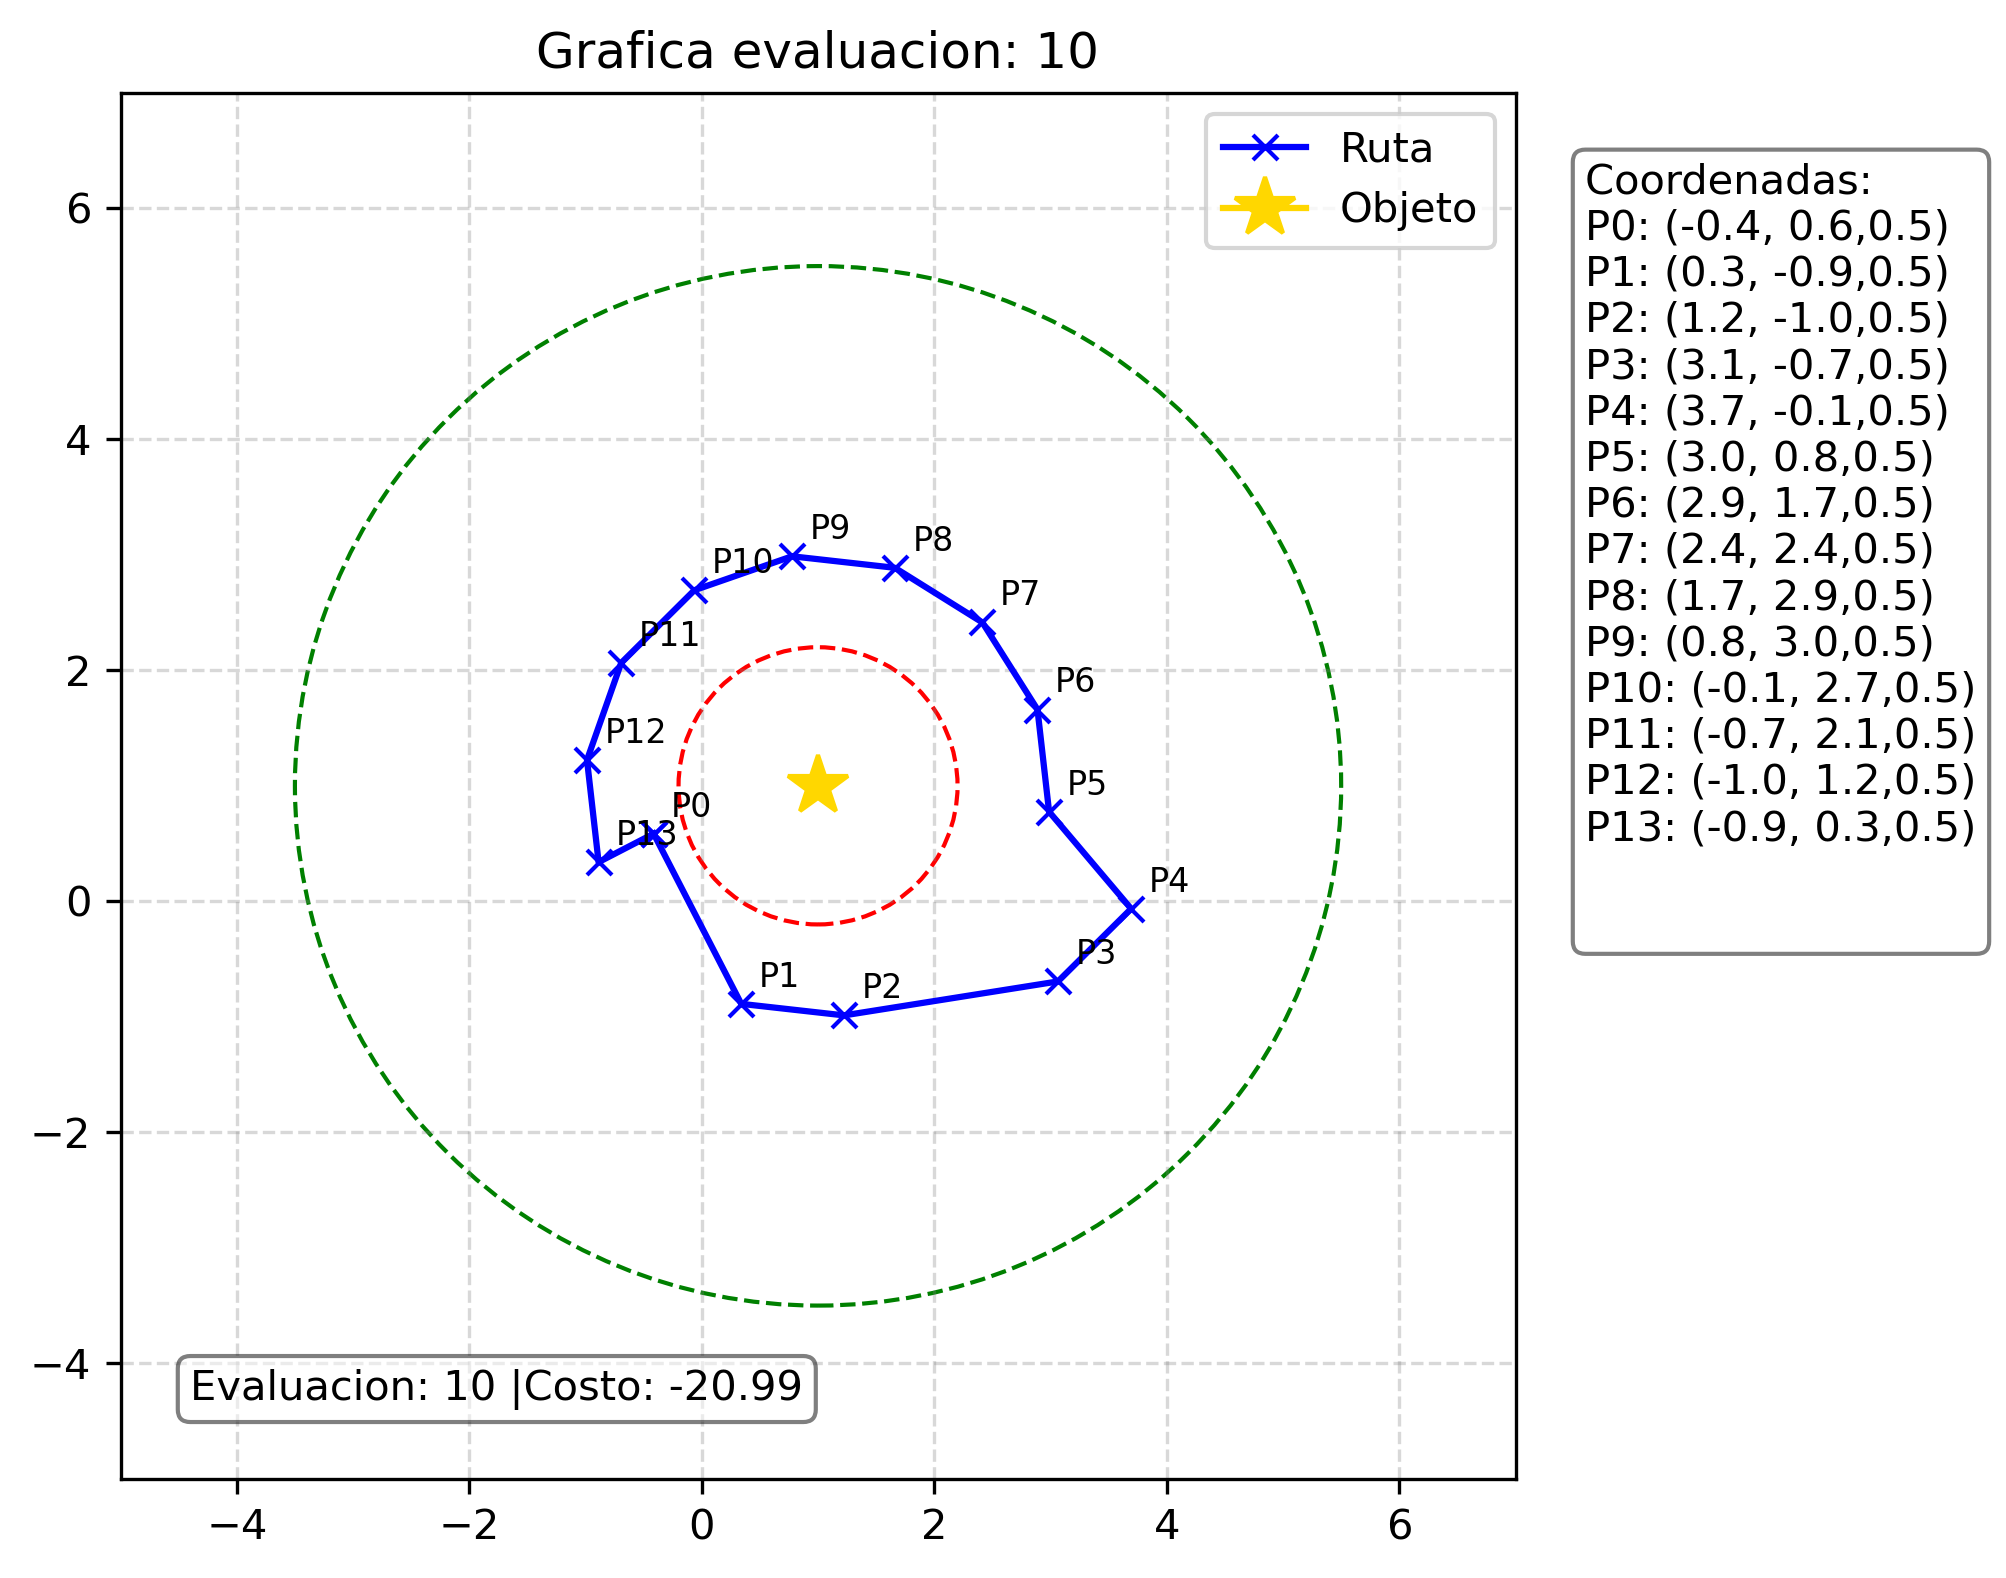
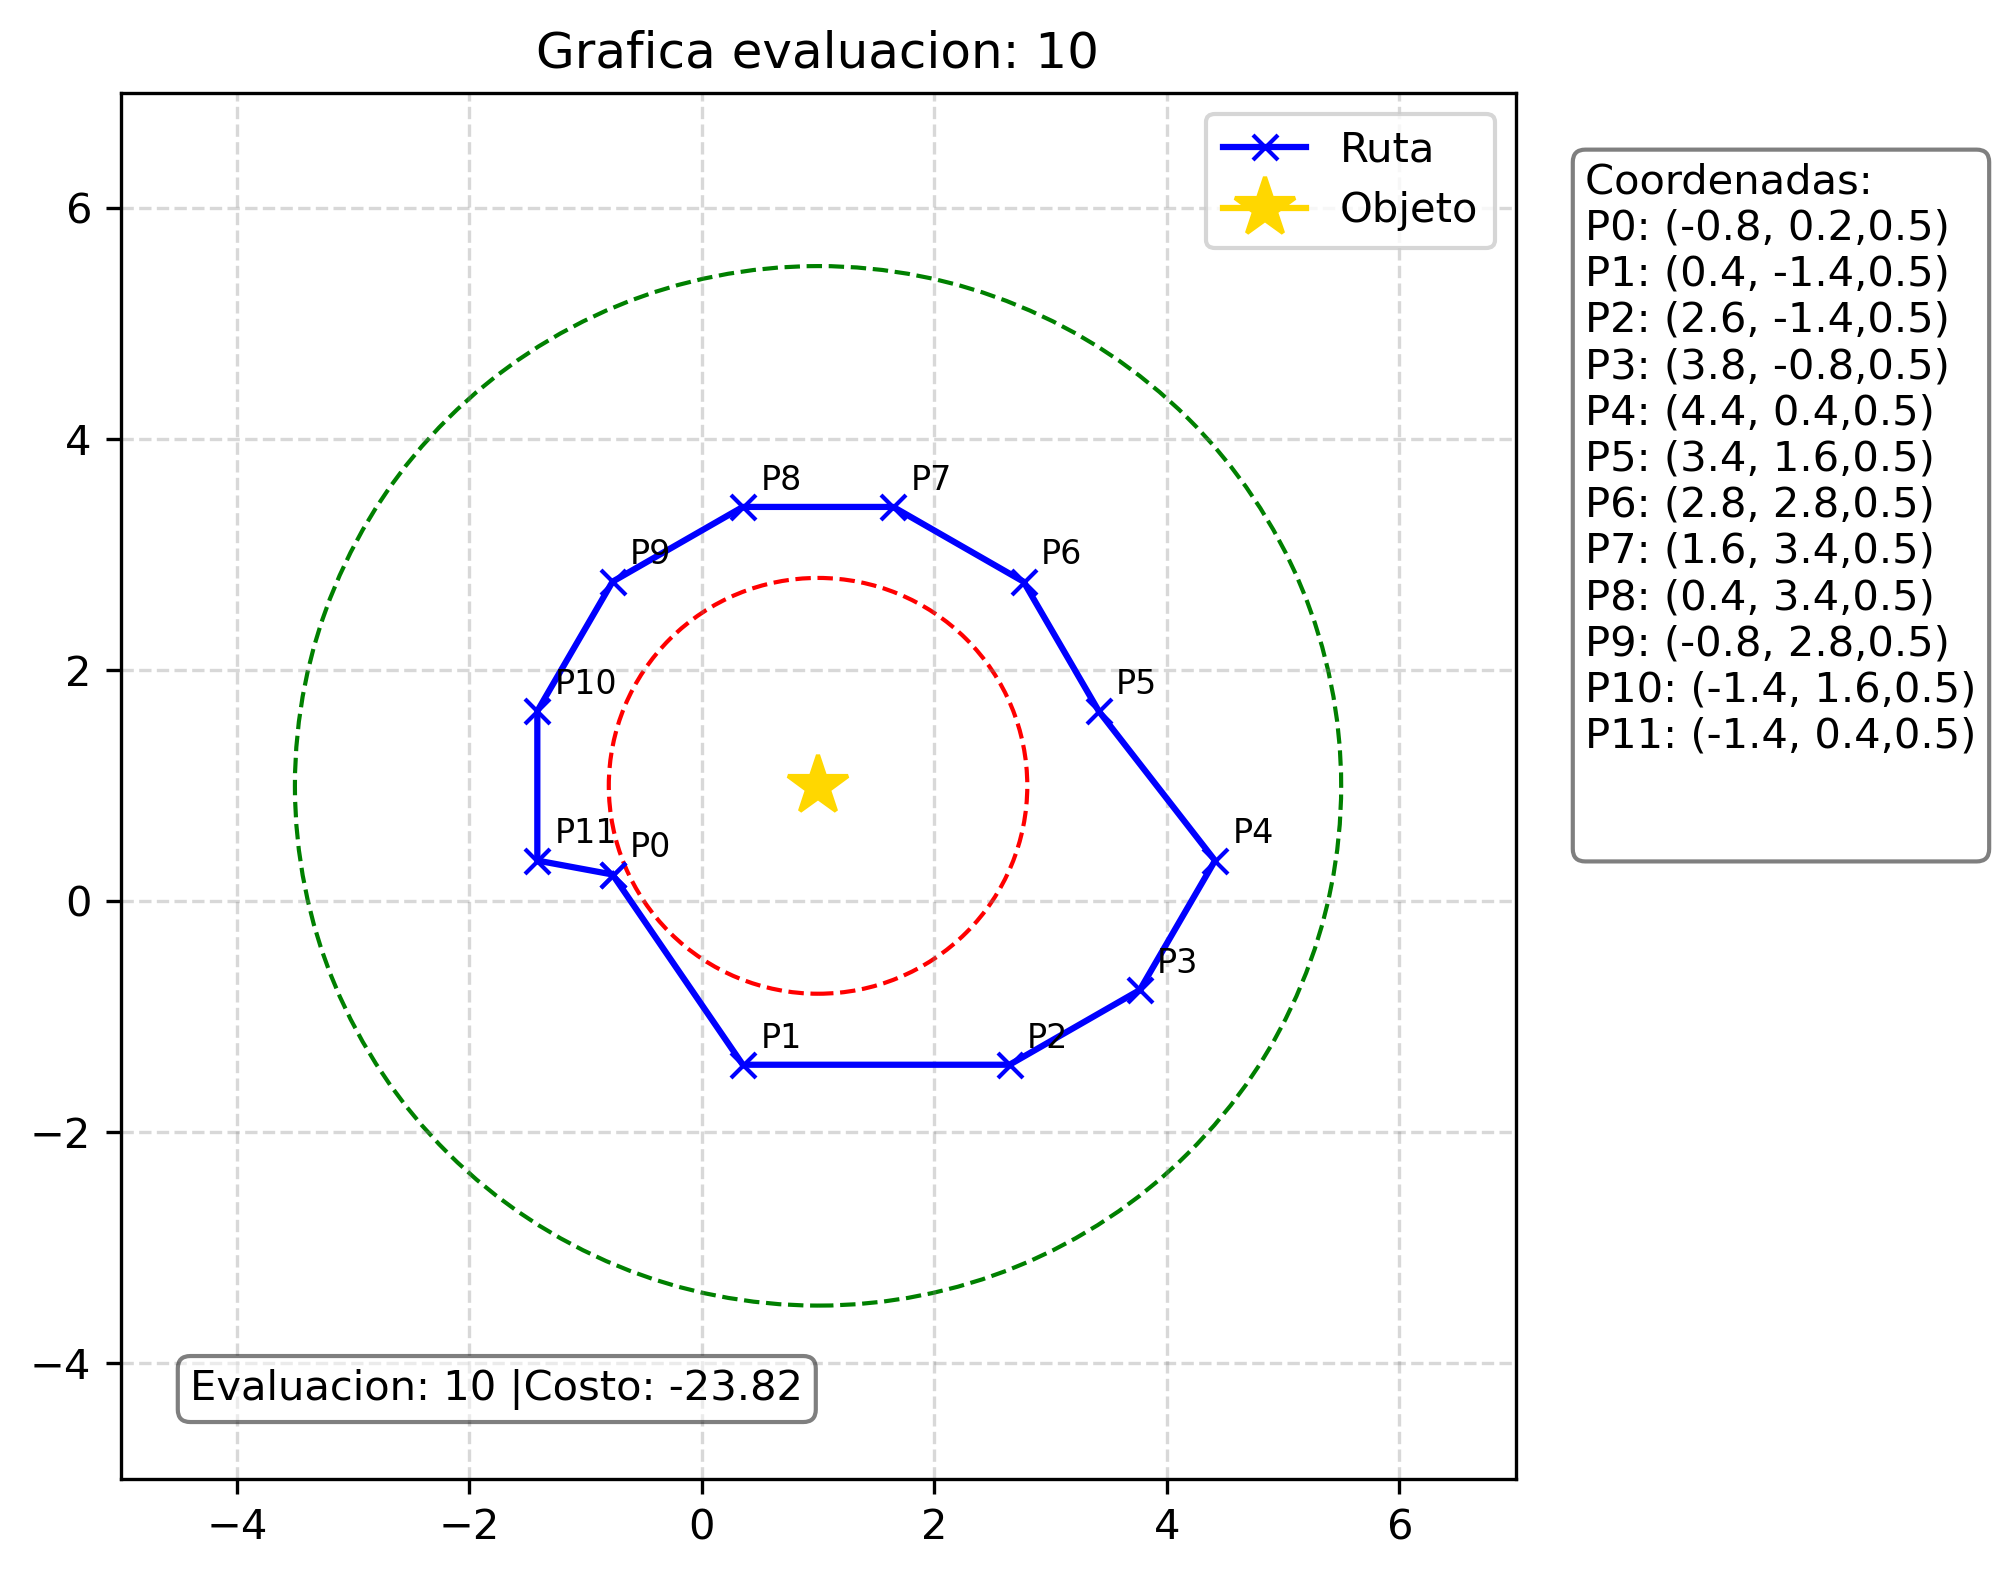
Correccion bugs

diff --git a/controllers/Controlador_principal/Optimizador.py b/controllers/Controlador_principal/Optimizador.py
@@ -75,7 +75,7 @@ def fun_costo(waypointsrt):
     contador+=1
     print(f"Evaluacion no: {contador}")
     peso=3.2
-    radio_min=1.2
+    radio_min=1.8
     radio_max=4.5
 
   
@@ -84,7 +84,7 @@ def fun_costo(waypointsrt):
     wp = []
     wp_guardar = []
     h=0.0 #Penalizacion limites de volumen
-    penalizacion_suavidad = 0.0
+    penalizacion_dmax = 0.0
 
     for i, xy in enumerate(wp_xy):
         x = xy[0]
@@ -147,18 +147,18 @@ def fun_costo(waypointsrt):
             px = x1 + t * dx
             py = y1 + t * dy
             dist_seg = mt.sqrt((px - cx)**2 + (py - cy)**2)
-            if dist_seg < 1.15:
-                h += abs(1.15 - dist_seg) * 500.0
+            if dist_seg < 1.75:
+                h += abs(1.75 - dist_seg) * 500.0
 
     if h>0:
       ptj=peso*(-100.0)
-      costo=-ptj+h+penalizacion_distancia+penalizacion_suavidad
+      costo=-ptj+h+penalizacion_distancia+penalizacion_dmax
       costos.append(costo)
       print(f"Posicion invalida: {contador} - Costo: {costo:.2f}")
       
       with open(ruta_historial, mode='a', newline='') as file:
           writer = csv.writer(file)
-          writer.writerow([contador, costo, 0.0, h, penalizacion_distancia, penalizacion_suavidad, distancia_teorica, 0.0] + wp_guardar)
+          writer.writerow([contador, costo, 0.0, h, penalizacion_distancia, penalizacion_dmax, distancia_teorica, 0.0] + wp_guardar)
       return costo 
     
     # 2. Escribir 'mision.json'
@@ -194,7 +194,7 @@ def fun_costo(waypointsrt):
     ptj = peso_fotos * puntaje
     
    
-    costo = -ptj + h + penalizacion_distancia + penalizacion_suavidad + (peso_dist * distancia_teorica) + (peso_tiempo * tiempo_total)
+    costo = -ptj + h + penalizacion_distancia + penalizacion_dmax + (peso_dist * distancia_teorica) + (peso_tiempo * tiempo_total)
     
     costos.append(costo)
 
@@ -203,7 +203,7 @@ def fun_costo(waypointsrt):
   
     with open(ruta_historial, mode='a', newline='') as file:
         writer = csv.writer(file)
-        writer.writerow([contador, costo, puntaje, h, penalizacion_distancia, penalizacion_suavidad, distancia_teorica, tiempo_total] + wp_guardar)
+        writer.writerow([contador, costo, puntaje, h, penalizacion_distancia, penalizacion_dmax, distancia_teorica, tiempo_total] + wp_guardar)
 
     Graficar_trayectoria(puntos,contador,costo,ruta_historia,radio_min,radio_max)
 
@@ -213,7 +213,7 @@ def fun_costo(waypointsrt):
 if __name__ == "__main__":
   
     altura=0.45
-    rmin=1.2
+    rmin=1.8
     rmax=4.5
         
     num_puntos=tray_obj.puntos_necesarios()
@@ -234,17 +234,17 @@ if __name__ == "__main__":
     with open(ruta_historial, mode='w', newline='') as file:
         writer = csv.writer(file)
         # Crear los encabezados
-        encabezados = ["Evaluacion", "Costo", "Puntaje_YOLO", "Penalizacion_Obs", "Penalizacion_Dist", "Penalizacion_Suav", "Distancia_Teorica", "Tiempo_Vuelo"]
+        encabezados = ["Evaluacion", "Costo", "Puntaje_YOLO", "Penalizacion_Obs", "Penalizacion_Dist", "Penalizacion_dmax", "Distancia_Teorica", "Tiempo_Vuelo"]
         for i in range(len(wp_in)//2):
             encabezados.extend([f"x{i}", f"y{i}", f"z{i}", f"yaw{i}"])
         writer.writerow(encabezados)
 
-    # Restricciones para COBYLA: (x-1)^2 + (y-1)^2 >= 1.2^2  y  (x-1)^2 + (y-1)^2 <= 5.5^2
+    # Restricciones para COBYLA: (x-1)^2 + (y-1)^2 >= 1.8^2  y  (x-1)^2 + (y-1)^2 <= 5.5^2
     restricciones = []
     
     #Funciones para restriccion cobyla
     def crear_restriccion_min(idx):
-        return lambda p: (p[idx] - 1.0)**2 + (p[idx+1] - 1.0)**2 - 1.2**2
+        return lambda p: (p[idx] - 1.0)**2 + (p[idx+1] - 1.0)**2 - 1.8**2
     def crear_restriccion_max(idx):
         return lambda p: 5.5**2 - ((p[idx] - 1.0)**2 + (p[idx+1] - 1.0)**2)
         
@@ -253,7 +253,7 @@ if __name__ == "__main__":
         restricciones.append({'type': 'ineq', 'fun': crear_restriccion_max(j)})
 
     # Ejecutar COBYLA
-    resultado = minimize(fun_costo, x0=wp_in, method='COBYLA', constraints=restricciones, options={'maxiter': 30, 'disp': True})
+    resultado = minimize(fun_costo, x0=wp_in, method='COBYLA', constraints=restricciones, options={'maxiter': 120, 'disp': True})
     
     print(f"\n--- COSTO FINAL: {resultado.fun:.2f} ---")
     

diff --git a/controllers/Controlador_principal/trayectoria.py b/controllers/Controlador_principal/trayectoria.py
@@ -12,7 +12,7 @@ class control_trayectoria:
         self.altura_vuelo=ladoz/2
         self.perimetro=2*(ladox+ladoy)
         self.area=(ladox*ladoy)
-        self.d= 2.0 #radio de trayectoria circular
+        self.d= 2.5 #radio de trayectoria circular
 
 
         self.posx=1.0   #posicion del obj x
